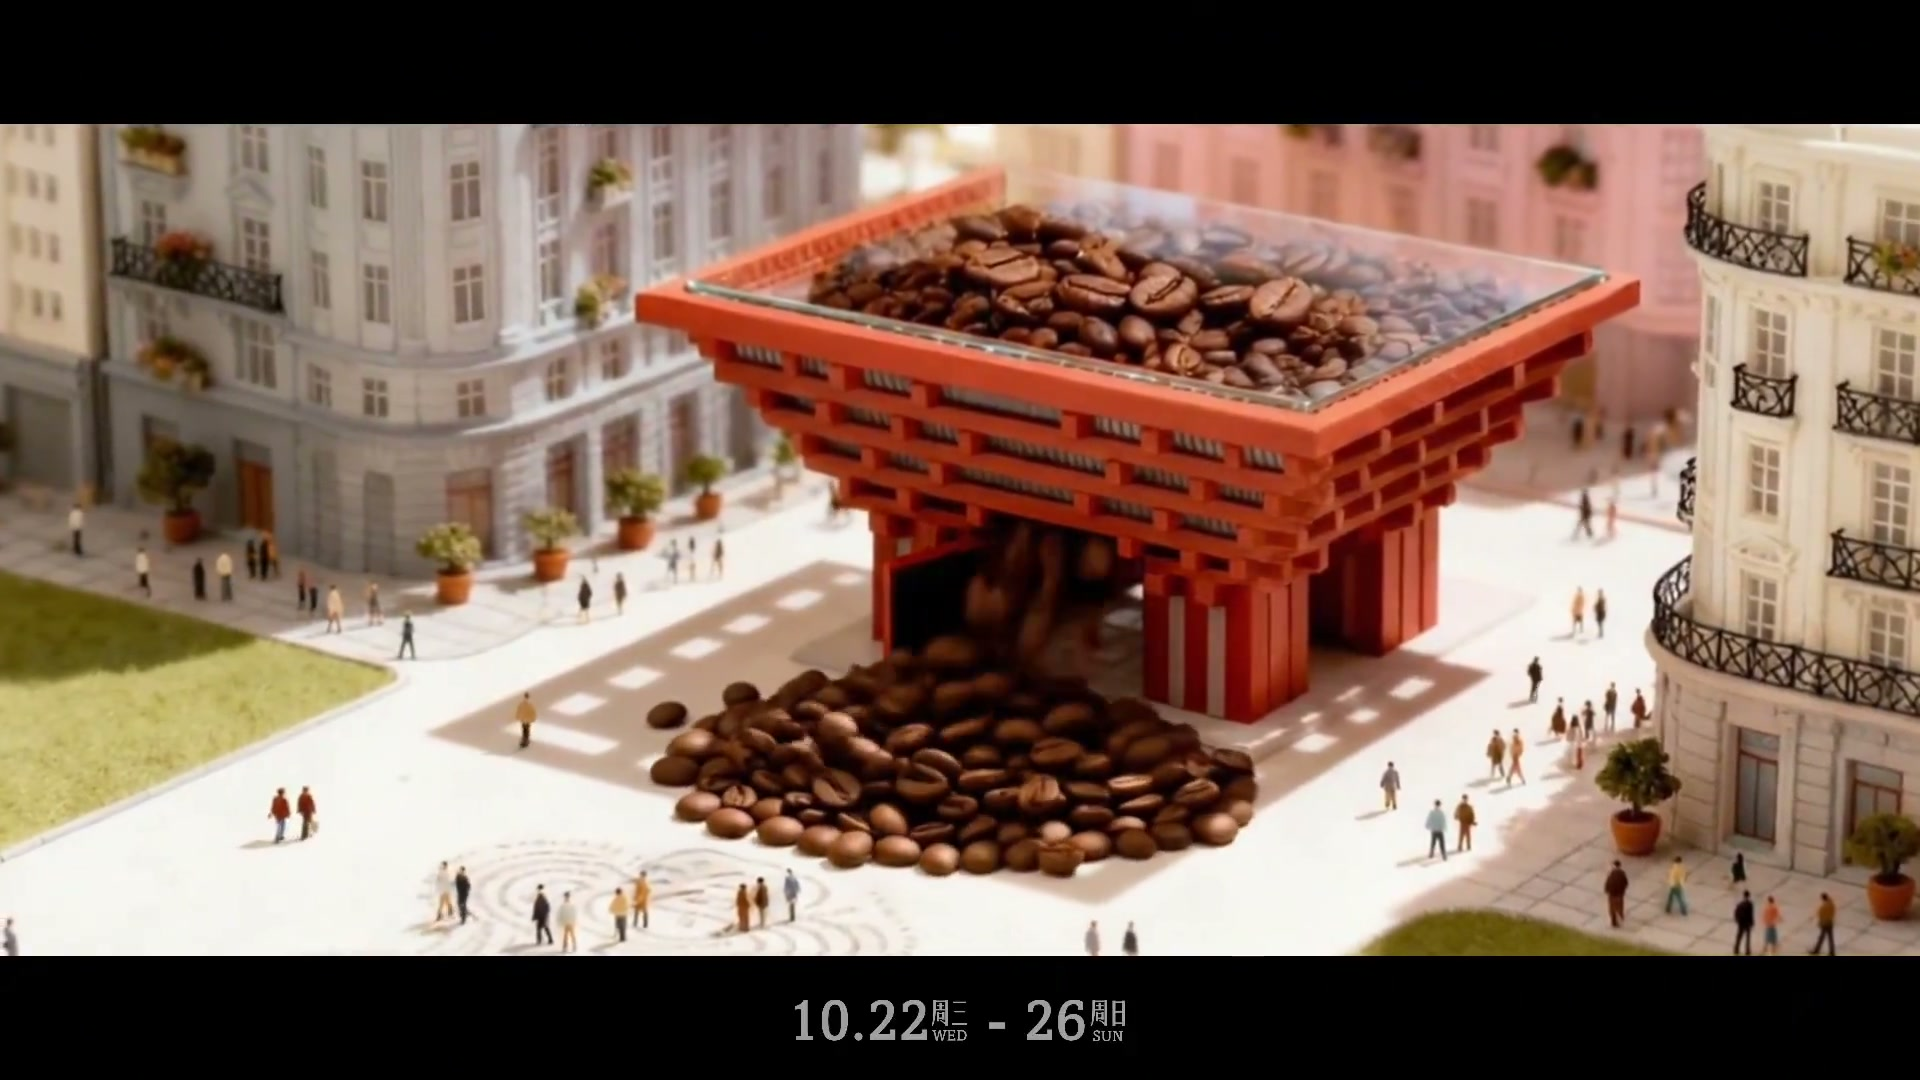
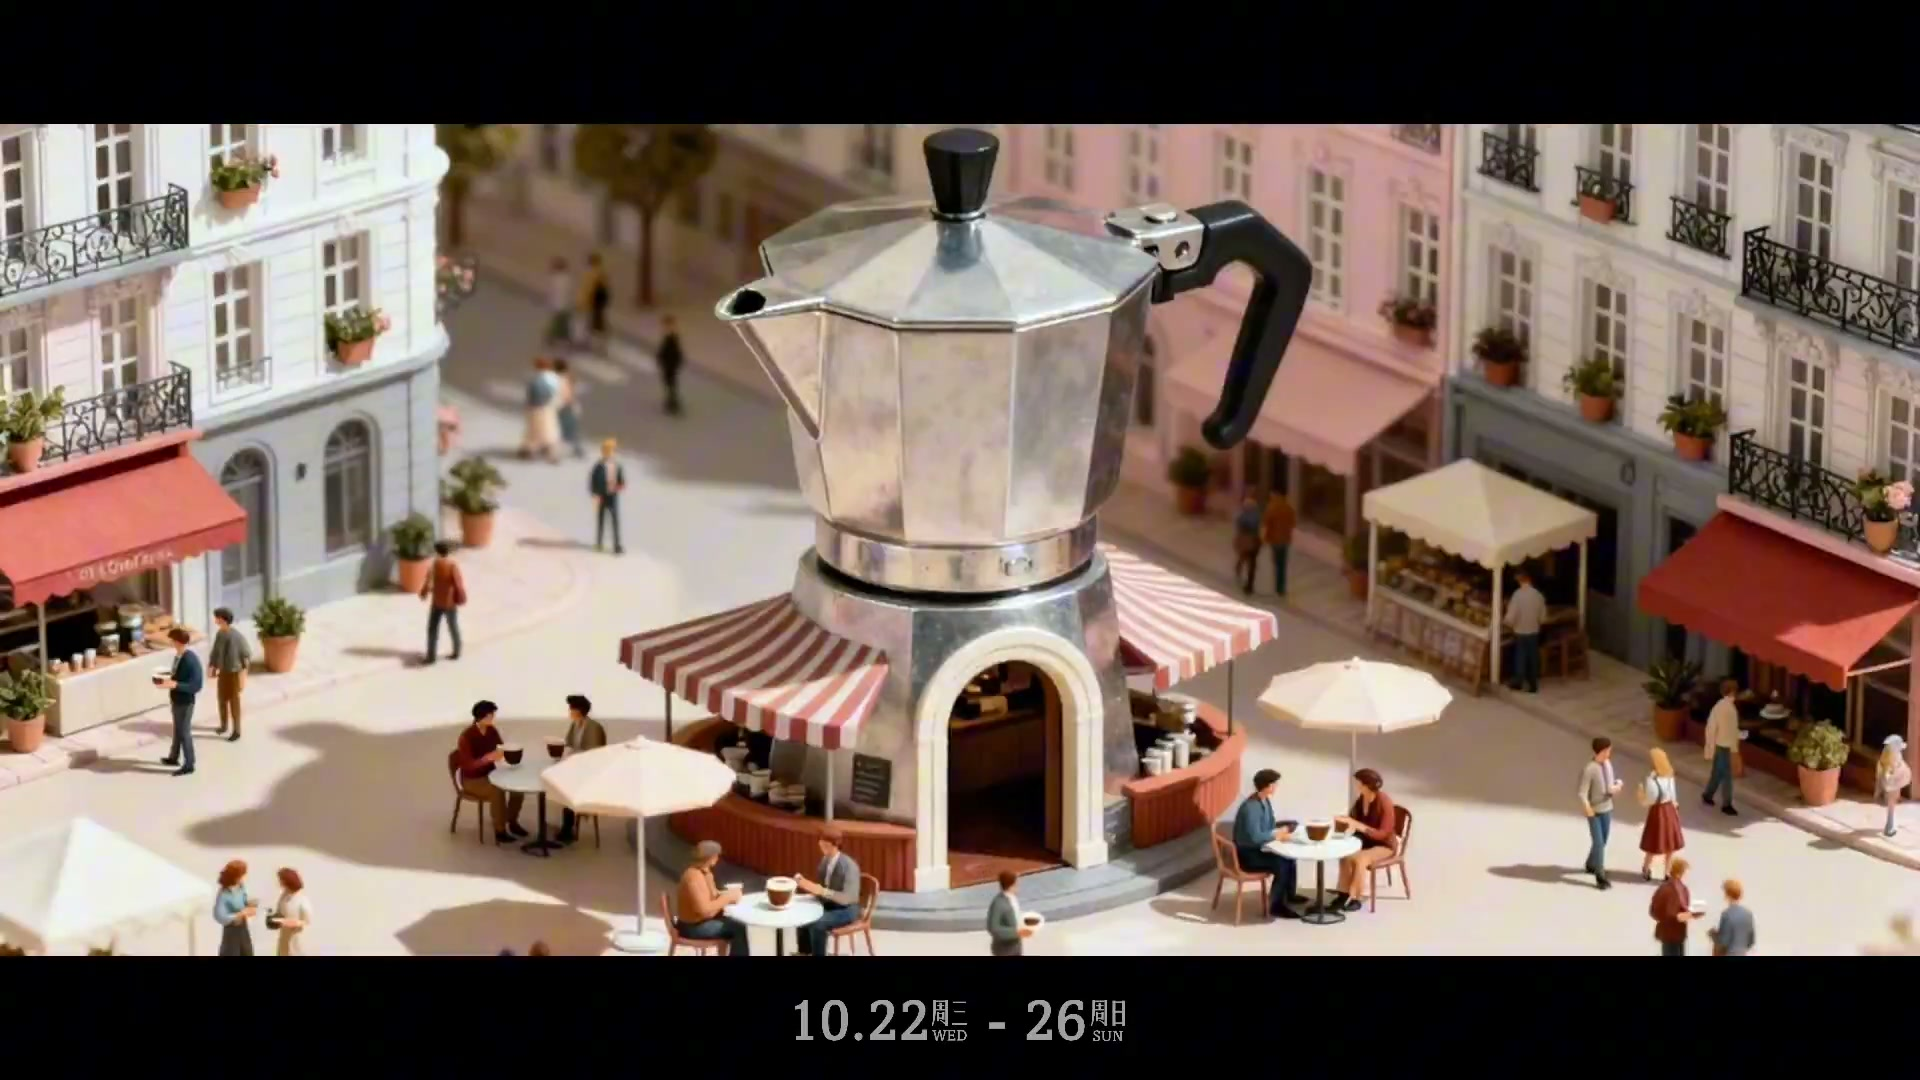
fix: re-extract frame_03 at 00:08.000 (user correction — 摩卡壶城堡位置)

diff --git a/references/cases/LJZ-COFFEE.md b/references/cases/LJZ-COFFEE.md
@@ -424,7 +424,7 @@ scene_relations:
 |---|---------|--------|---------|------|
 | 1 | 镜头1 | 00:00.750 | 开场全景·引导线构图·平移运镜·微缩模型 | assets/LJZ-COFFEE/frame_01_opening.jpg |
 | 2 | 镜头6 | 00:10.000 | 唯一移动镜头·斜角构图·咖啡杯巴士 | assets/LJZ-COFFEE/frame_02_bus.jpg |
-| 3 | 镜头9 | 00:17.500 | 唯一推镜头·引导线构图·摩卡壶城堡·童话感 | assets/LJZ-COFFEE/frame_03_push.jpg |
+| 3 | 镜头4-5 | 00:08.000 | 摩卡壶城堡·城市街景·咖啡器具建筑化 | assets/LJZ-COFFEE/frame_03_push.jpg |
 | 4 | 镜头10 | 00:20.000 | 视觉高潮·拉花CG特效·奶白+咖啡棕 | assets/LJZ-COFFEE/frame_04_latteart.jpg |
 | 5 | 镜头11 | 00:23.000 | 唯一定格逆光·远景·暖橘+粉紫霞光·情感升华 | assets/LJZ-COFFEE/frame_05_sunset.jpg |
 | 6 | 镜头14 | 00:31.750 | 唯一转场·插画风格·品牌联结 | assets/LJZ-COFFEE/frame_06_transition.jpg |